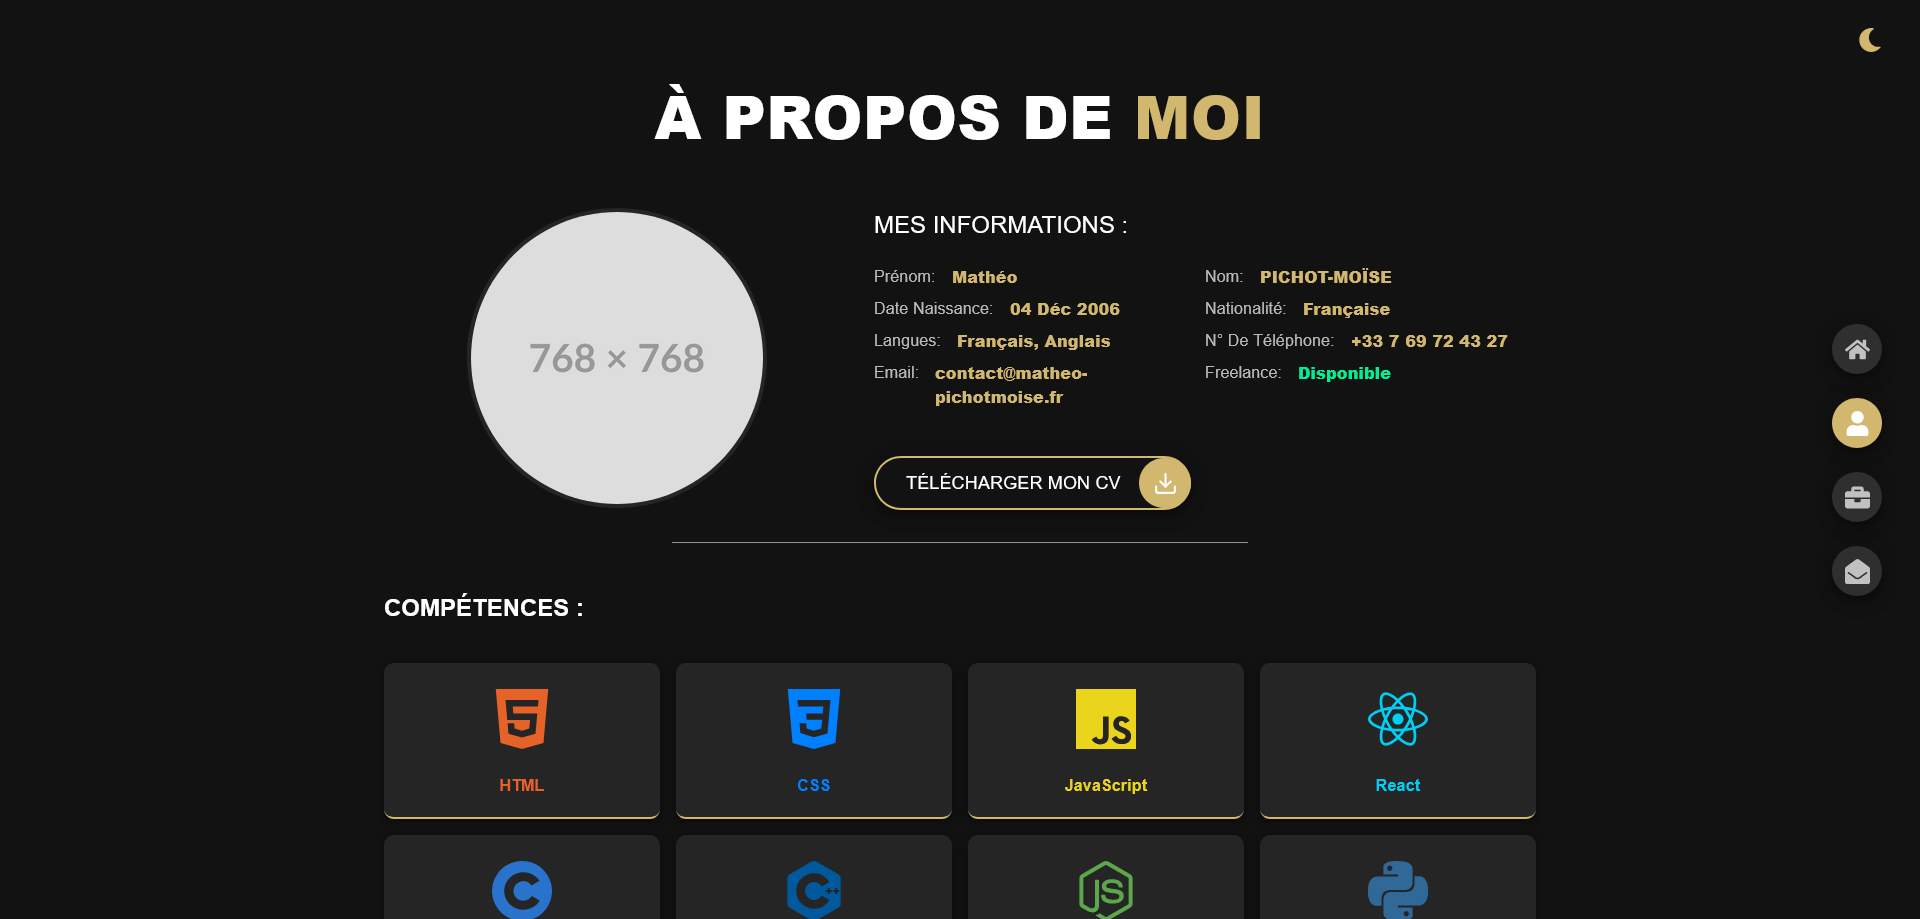
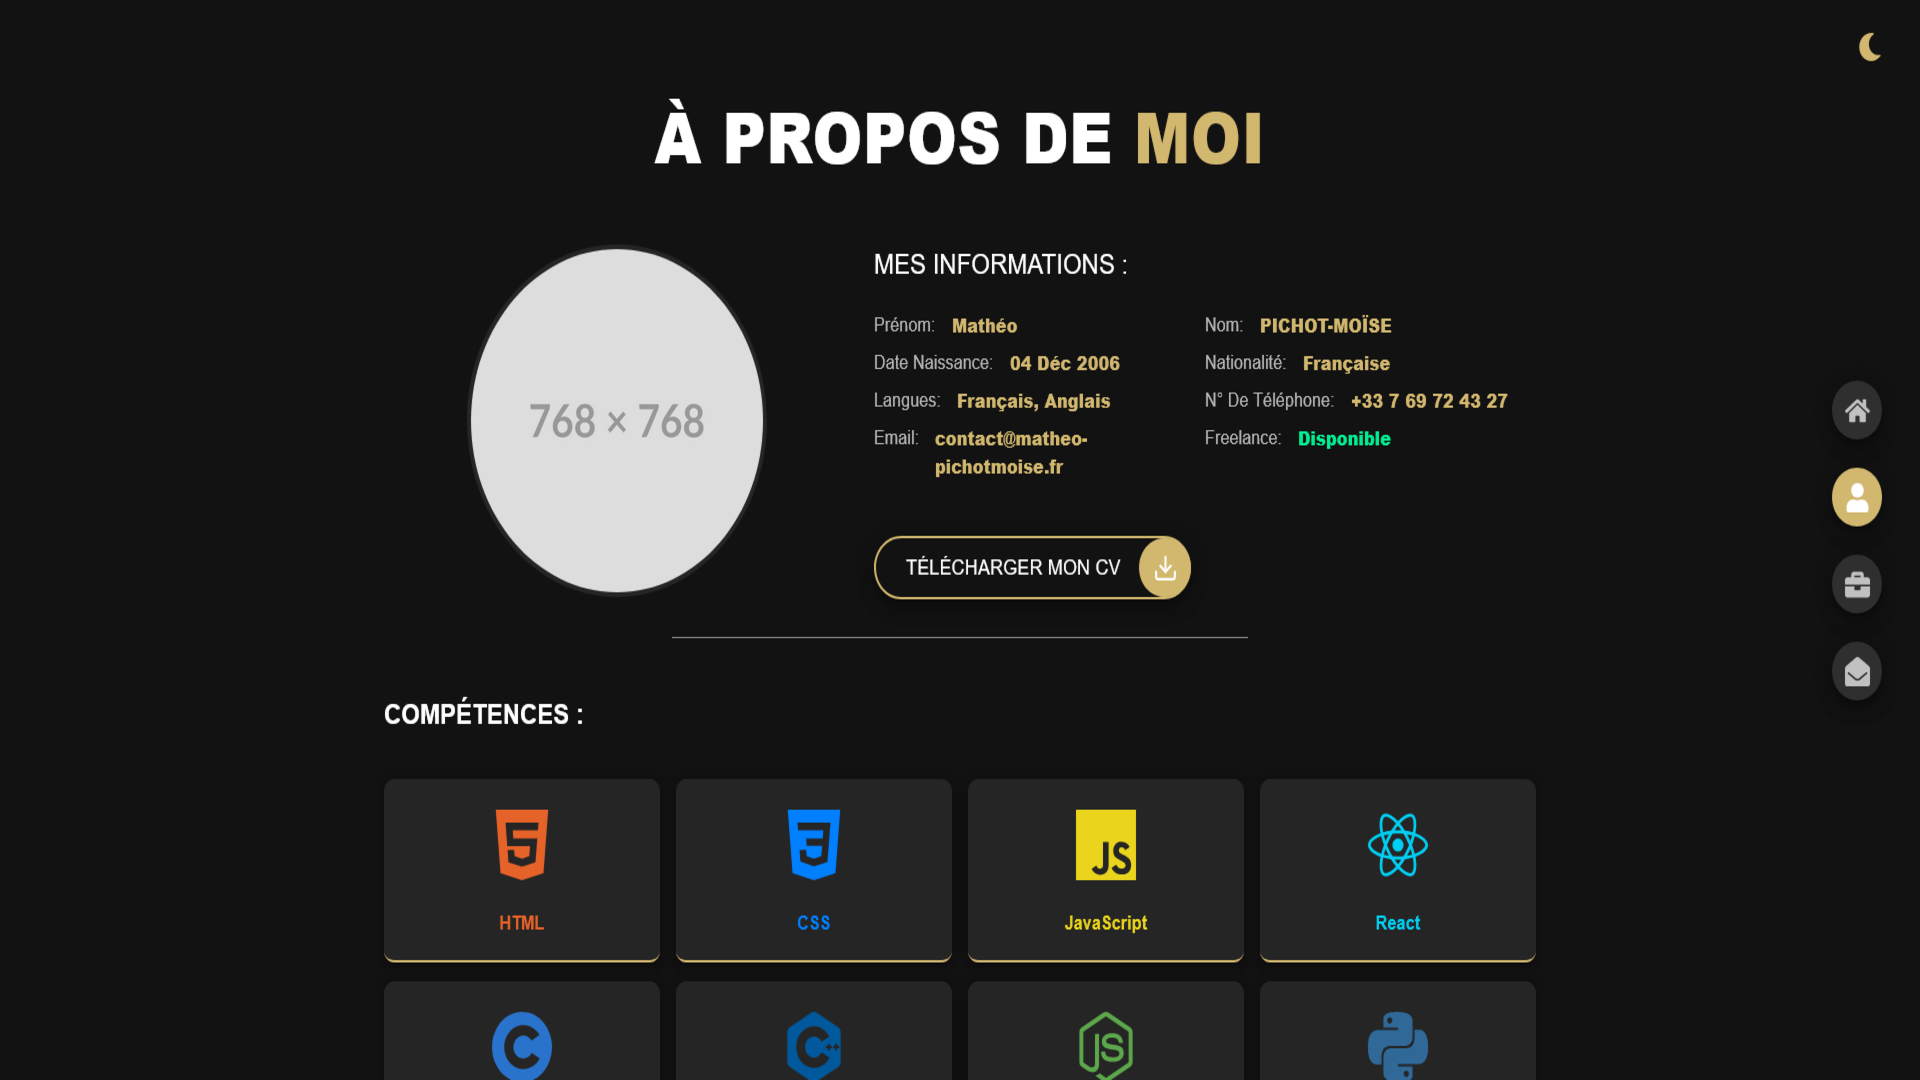
fix: img resized

diff --git a/src/Components/data.js b/src/Components/data.js
@@ -86,7 +86,6 @@ export const myProjects = [
   {
     id: 2,
     title: "[ 📦 My Box ]",
-    link: "/",
     img: mybox,
     githubLink: "https://github.com/KucoDEV/MyBox",
     Language: ["HTML", "CSS", "JavaScript", "Python"],
@@ -96,7 +95,6 @@ export const myProjects = [
   {
     id: 3,
     title: "OratisAI",
-    link: "/",
     img: oratisai,
     githubLink: "https://github.com/KucoDEV/OratisAI",
     Language: ["Python"],
@@ -106,7 +104,6 @@ export const myProjects = [
   {
     id: 4,
     title: "BUT-Projets",
-    link: "/",
     img: butprojets,
     githubLink: "https://github.com/KucoDEV/BUT-Projets",
     Language: ["C"],
@@ -116,7 +113,6 @@ export const myProjects = [
   {
     id: 5,
     title: "KeyWins",
-    link: "/",
     img: keywins,
     githubLink: "https://github.com/KucoDEV/KeyWins",
     Language: ["HTML", "CSS", "JavaScript"],
@@ -126,7 +122,7 @@ export const myProjects = [
   {
     id: 6,
     title: "Site Oratis",
-    link: "/",
+    link: "https://www.oratis.fr",
     img: oratis_website,
     githubLink: "https://github.com/OratisDEV/oratisdev.github.io",
     Language: ["HTML", "CSS"],

diff --git a/src/Components/About.jsx b/src/Components/About.jsx
@@ -14,7 +14,6 @@ import myImage2 from "../Images/02.png";
 import myImage3 from "../Images/03.png";
 
 import { myPersonalInfo, skills, skills2 } from "./data";
-// import {LinearWithLabel} from './ProgressWithLabel'
 import Parcours from "./Parcours";
 import { FiDownload } from "react-icons/fi";
 
